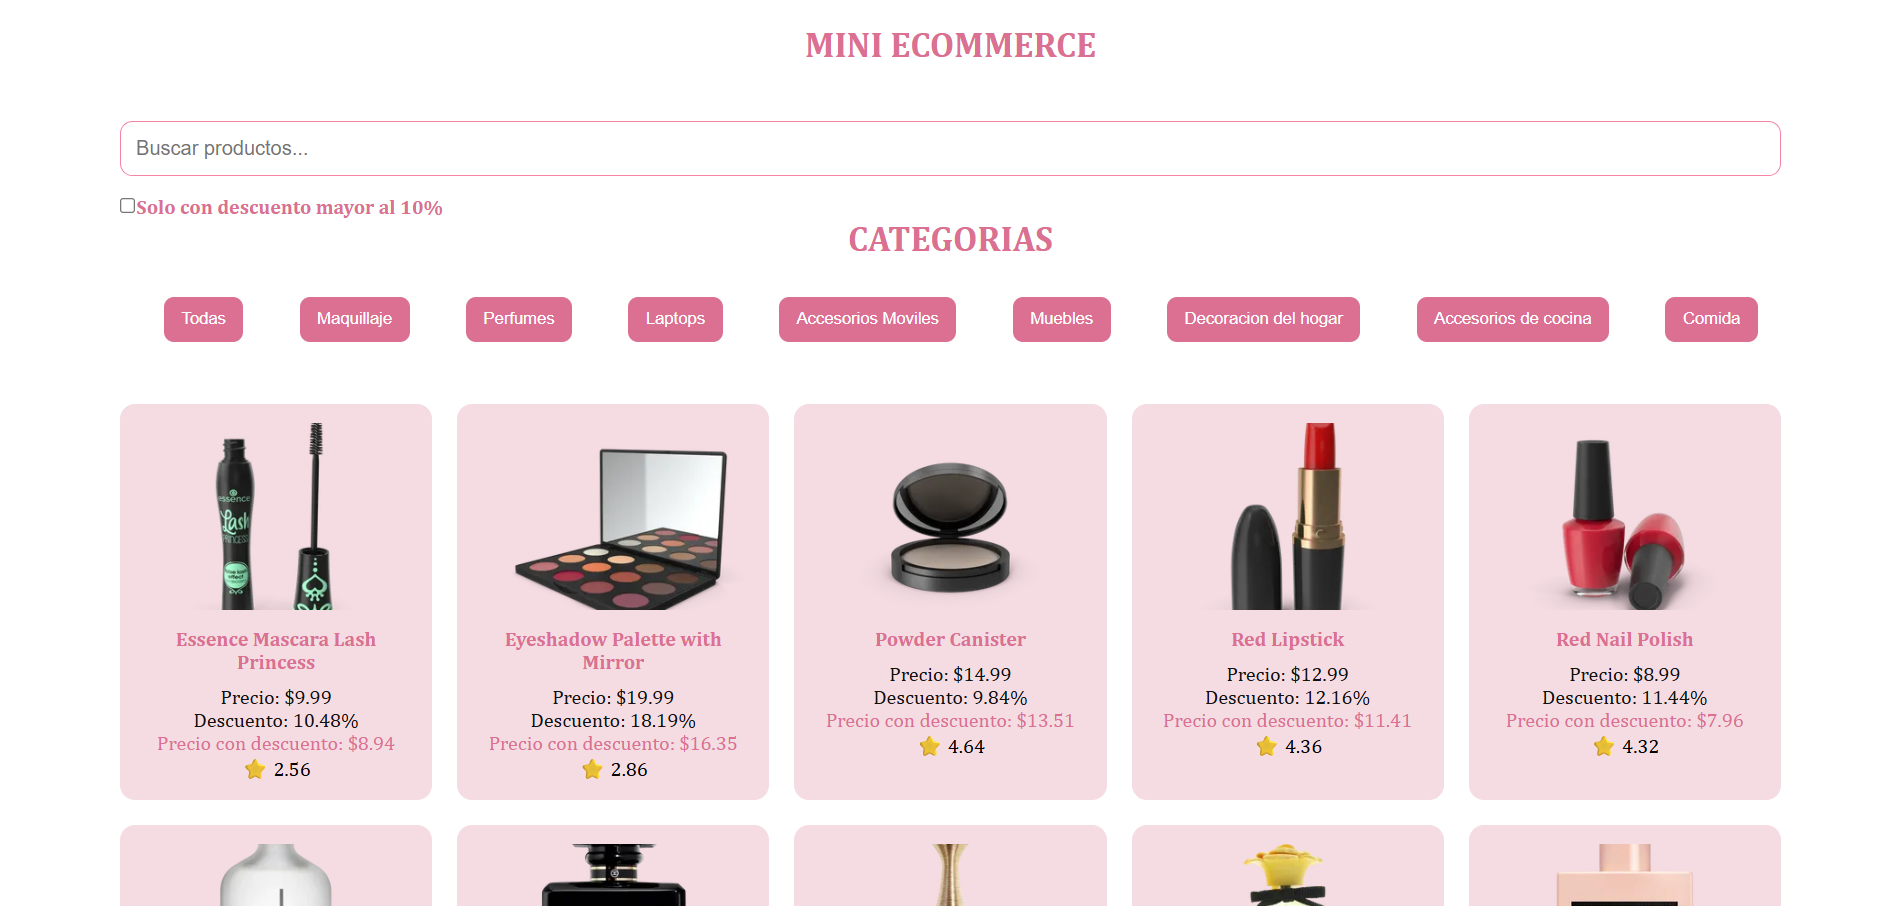
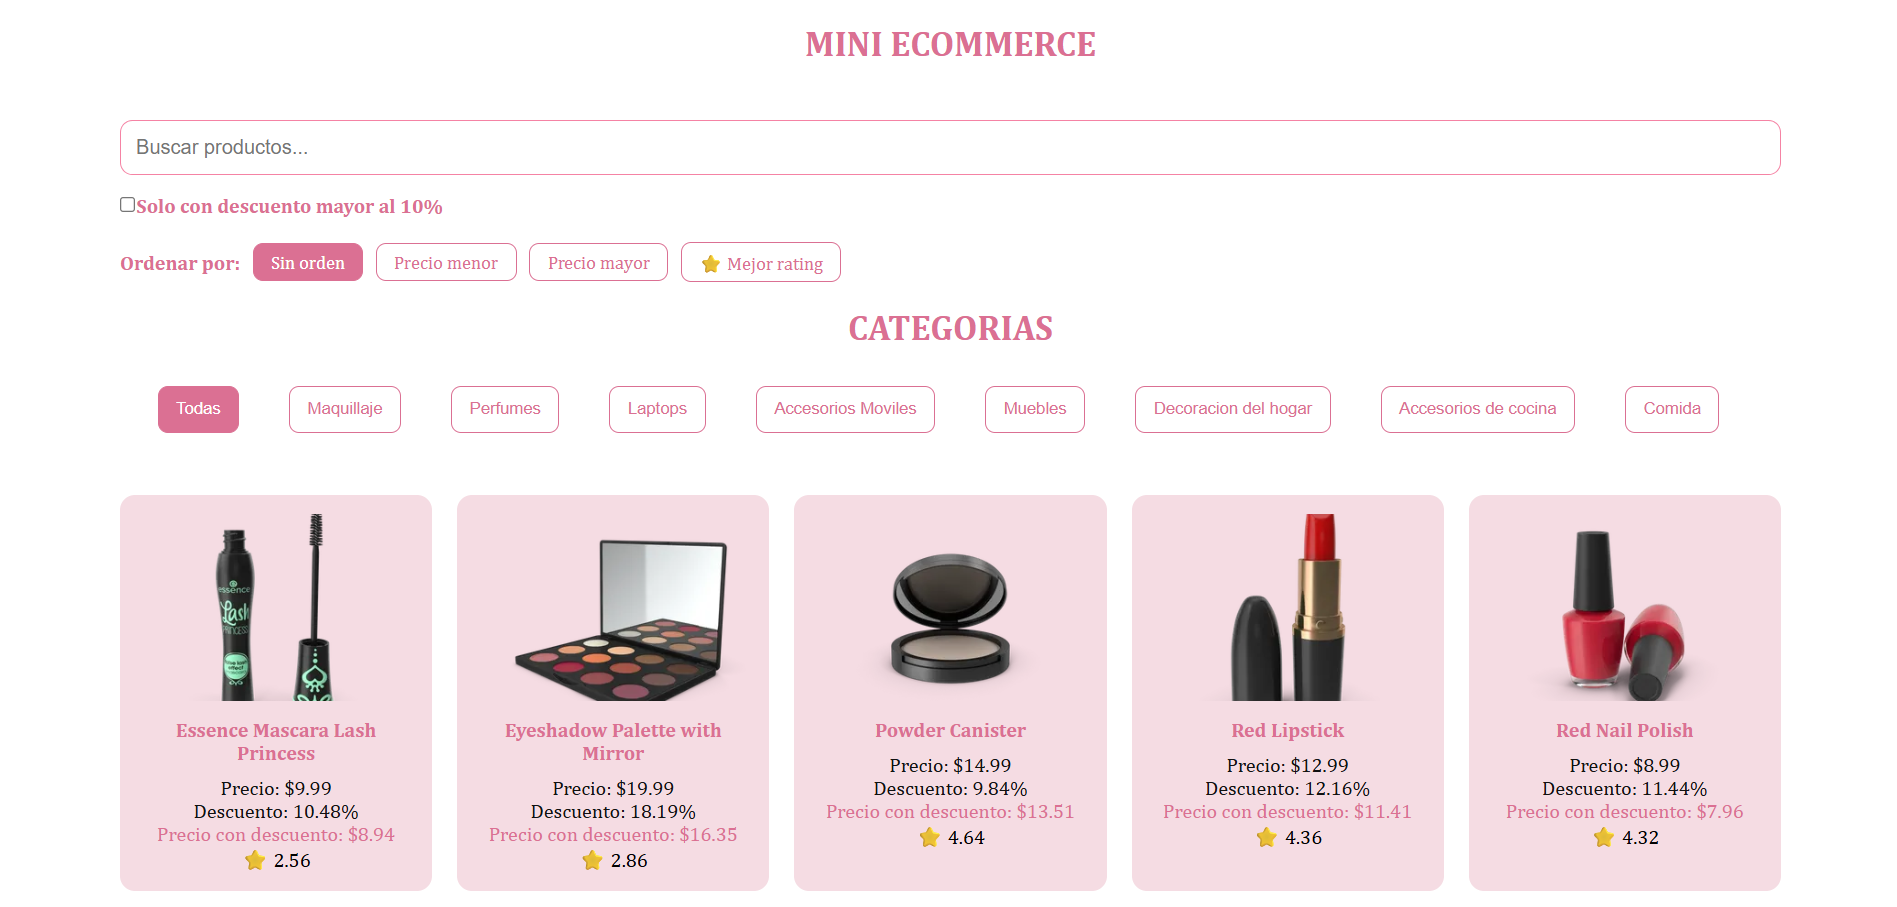
Se modifico el README.md agregando mas capturas de pantalla del proyecto

diff --git a/README.md b/README.md
@@ -97,13 +97,17 @@ src/
 
 ![Búsqueda](public/busqueda.png)
 
-### 🗂 Filtro por categorías
-    
-![Filtro](public/categorias.png)
+### 🗂 Ordenar por
+
+![Filtro](public/ordenar-por.png)
 
 ### 💸 Filtro por descuento
 
 ![Filtro](public/descuento.png)
+
+### 🗂 Filtro por categorías
+    
+![Filtro](public/categorias.png)
 
 ---
 
